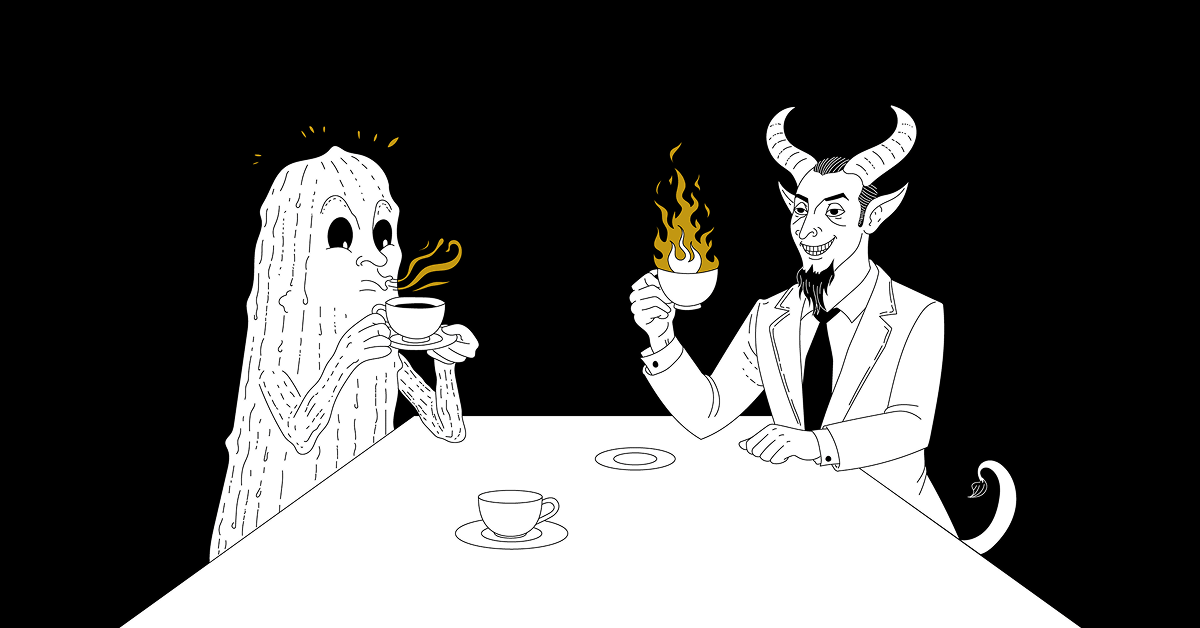
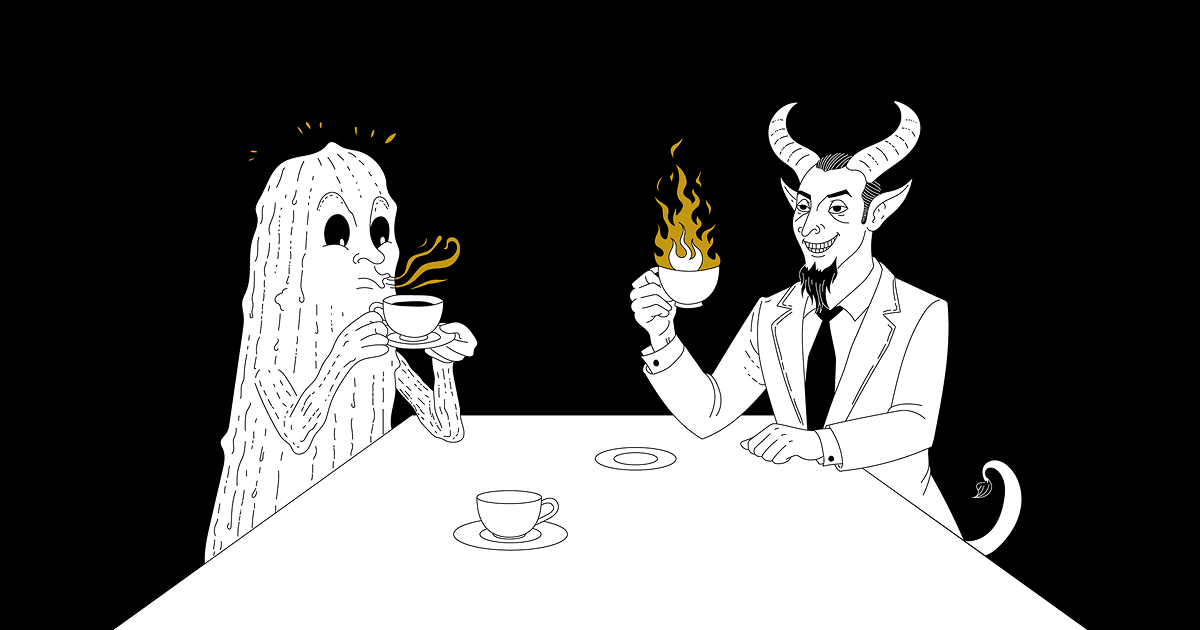
tweak og size

diff --git a/src/components/Meta.svelte b/src/components/Meta.svelte
@@ -24,7 +24,7 @@
 	<meta property="og:image" content="{url}/assets/social.png" />
 	<meta property="og:image:type" content="image/png" />
 	<meta property="og:image:width" content="1200" />
-	<meta property="og:image:height" content="628" />
+	<meta property="og:image:height" content="630" />
 
 	<meta name="twitter:card" content="summary_large_image" />
 	<meta name="twitter:site" content="https://pudding.cool" />